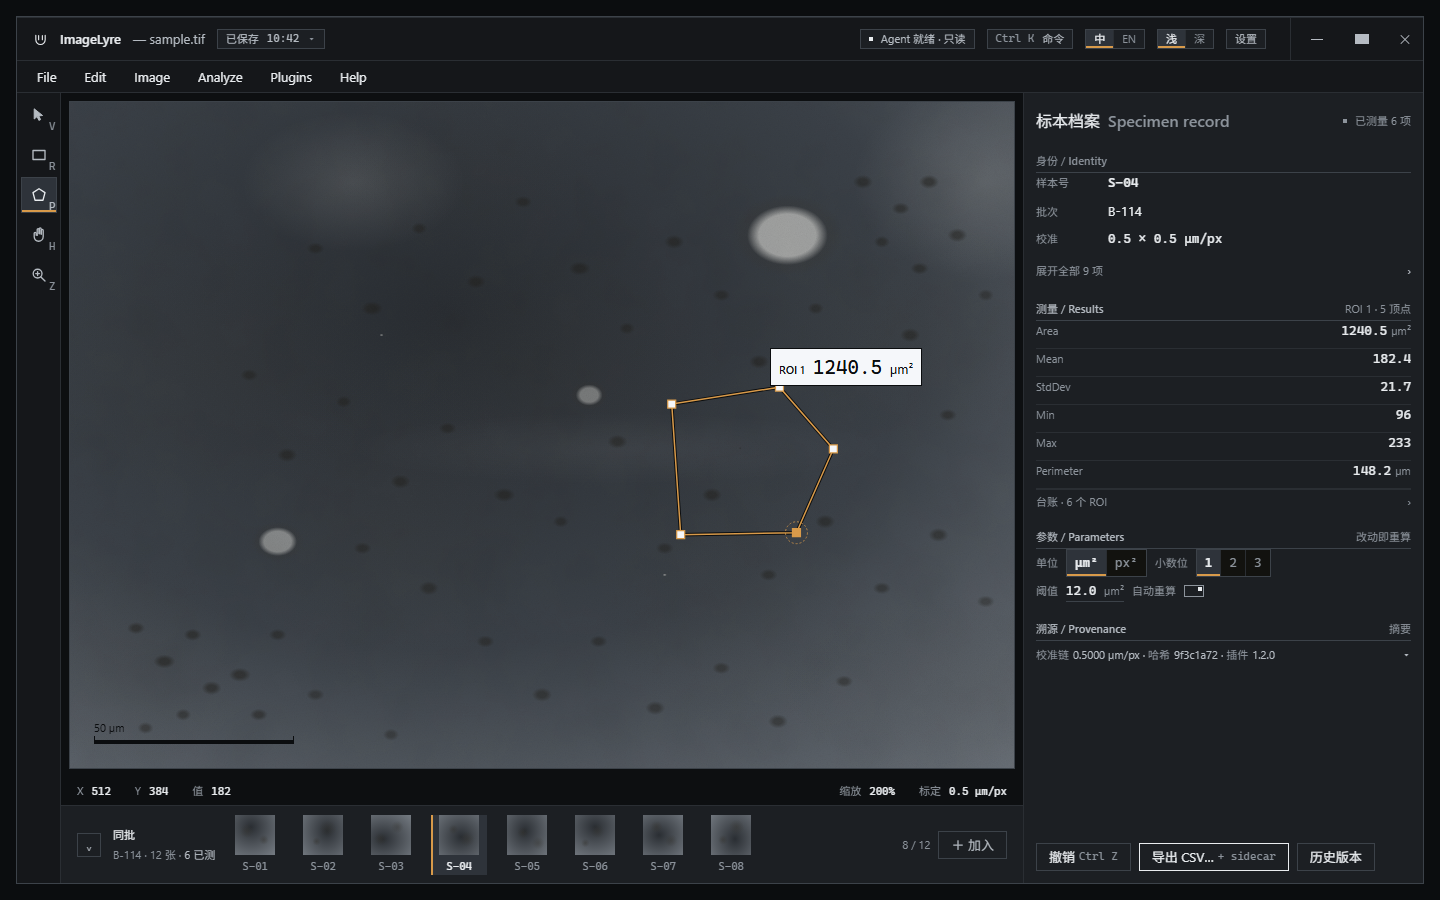
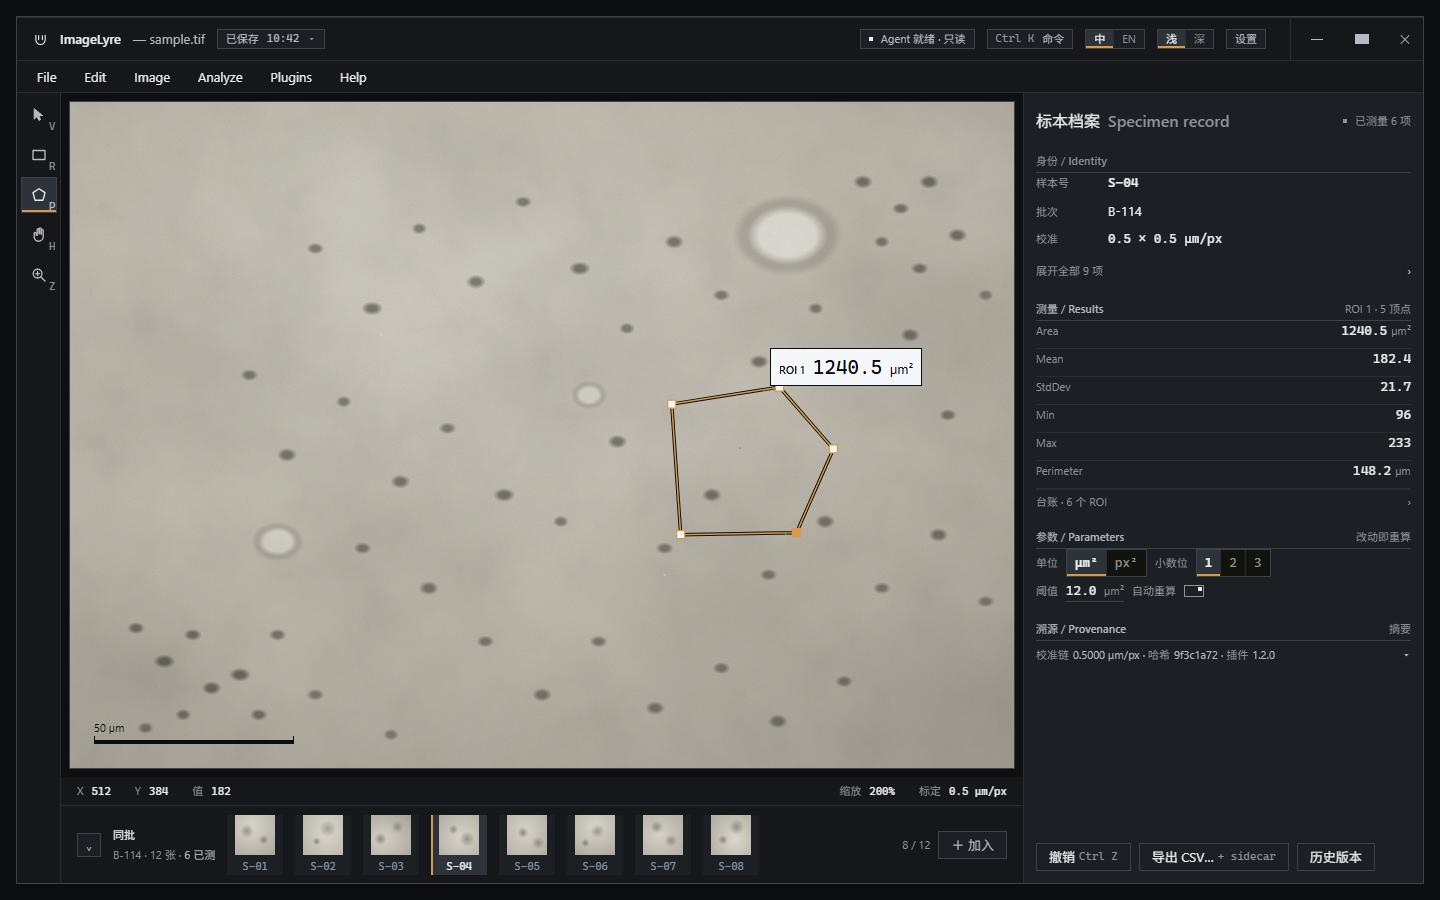
docs(design): 31 暗色最终预览

diff --git a/docs/design/lukan/bakeoff-2026-11-20/e-science/v11/mock.html b/docs/design/lukan/bakeoff-2026-11-20/e-science/v11/mock.html
@@ -79,7 +79,7 @@
   /* ---------- stage ---------- */
   .stage{flex:1 1 auto;min-width:0;display:flex;flex-direction:column;background:#0D0F11}
   .viewport{flex:1 1 auto;min-height:0;display:flex;padding:var(--sp-2)}
-  .plate{position:relative;flex:1 1 auto;min-height:0;overflow:hidden;border:1px solid var(--rule);background-color:#3c4249;background-image:radial-gradient(ellipse 84px 62px at 76% 20%, rgba(250,248,241,.55) 0 34%, rgba(58,54,46,.16) 48% 54%, rgba(58,54,46,0) 66%),
+  .plate{position:relative;flex:1 1 auto;min-height:0;overflow:hidden;border:1px solid var(--rule);background-color:#B4B4B0;background-image:radial-gradient(ellipse 84px 62px at 76% 20%, rgba(250,248,241,.55) 0 34%, rgba(58,54,46,.16) 48% 54%, rgba(58,54,46,0) 66%),
       radial-gradient(ellipse 40px 30px at 22% 66%, rgba(249,247,240,.42) 0 34%, rgba(58,54,46,.13) 48% 54%, rgba(58,54,46,0) 66%),
       radial-gradient(ellipse 28px 22px at 55% 44%, rgba(249,247,240,.36) 0 32%, rgba(58,54,46,.12) 48% 54%, rgba(58,54,46,0) 66%),
       radial-gradient(ellipse 3px 2px at 63% 71%, rgba(255,253,246,.5), rgba(255,253,246,0) 70%),
@@ -152,7 +152,7 @@
       radial-gradient(ellipse 190px 140px at 97% 12%, rgba(250,248,240,.15), rgba(250,248,240,0) 70%),
       radial-gradient(ellipse 160px 100px at 30% 12%, rgba(250,248,240,.12), rgba(250,248,240,0) 70%),
       radial-gradient(ellipse 380px 50px at 58% 52%, rgba(255,255,255,.05), rgba(255,255,255,0) 72%),
-      radial-gradient(120% 120% at 40% 32%, #2a2e33 0%, #3c4249 42%, #8c939b 100%);}
+      radial-gradient(120% 120% at 40% 32%, #d4d0c5 0%, #beb9ad 42%, #8f8b81 100%);}
   .plate::before,.plate::after{content:"";position:absolute;inset:0;z-index:1;pointer-events:none;mix-blend-mode:multiply}
   .plate::before{filter:url(#mottle);opacity:.19}
   .plate::after{filter:url(#grain);opacity:.16}
@@ -194,18 +194,18 @@
   .b-tabs{flex:1 1 auto;display:flex;align-items:center;gap:var(--sp-3);min-width:0}
   .b-tab{flex:0 0 var(--w-thumb);width:var(--w-thumb);height:var(--h-thumb);display:flex;flex-direction:column;align-items:center;background:var(--panel)}
   .b-tab.on{background:var(--sel)}
-  .b-thumb{width:var(--d-thumb);height:var(--d-thumb);background-color:#3c4249}
+  .b-thumb{width:var(--d-thumb);height:var(--d-thumb);background-color:#B4B4B0}
   .b-id{height:var(--lh-11);display:flex;align-items:center;gap:var(--sp-1);margin-top:var(--sp-1);font-family:var(--mono);font-size:var(--fs-11);line-height:var(--lh-11);color:var(--ink-3)}
   .b-tab.on .b-id{color:var(--ink)}
   
-  .b-thumb.a{background-image:radial-gradient(circle 10px at 30% 40%, rgba(50,48,42,.38), rgba(50,48,42,0) 70%),radial-gradient(circle 7px at 72% 62%, rgba(50,48,42,.42), rgba(50,48,42,0) 70%),radial-gradient(120% 120% at 40% 30%, #2a2e33, #8c939b)}
-  .b-thumb.b{background-image:radial-gradient(circle 12px at 62% 34%, rgba(50,48,42,.34), rgba(50,48,42,0) 70%),radial-gradient(circle 6px at 34% 66%, rgba(50,48,42,.44), rgba(50,48,42,0) 70%),radial-gradient(110% 130% at 60% 40%, #2a2e33, #8c939b)}
-  .b-thumb.c{background-image:radial-gradient(circle 9px at 24% 60%, rgba(50,48,42,.44), rgba(50,48,42,0) 70%),radial-gradient(circle 9px at 66% 30%, rgba(50,48,42,.34), rgba(50,48,42,0) 70%),radial-gradient(130% 110% at 30% 60%, #2a2e33, #8c939b)}
-  .b-thumb.d{background-image:radial-gradient(circle 11px at 70% 60%, rgba(50,48,42,.38), rgba(50,48,42,0) 70%),radial-gradient(circle 7px at 36% 36%, rgba(50,48,42,.40), rgba(50,48,42,0) 70%),radial-gradient(120% 120% at 55% 55%, #2a2e33, #8c939b)}
-  .b-thumb.e{background-image:radial-gradient(circle 8px at 40% 44%, rgba(50,48,42,.46), rgba(50,48,42,0) 70%),radial-gradient(circle 9px at 78% 70%, rgba(50,48,42,.34), rgba(50,48,42,0) 70%),radial-gradient(110% 130% at 45% 40%, #2a2e33, #8c939b)}
-  .b-thumb.f{background-image:radial-gradient(circle 10px at 56% 40%, rgba(50,48,42,.36), rgba(50,48,42,0) 70%),radial-gradient(circle 6px at 26% 70%, rgba(50,48,42,.44), rgba(50,48,42,0) 70%),radial-gradient(130% 120% at 50% 30%, #2a2e33, #8c939b)}
-  .b-thumb.g{background-image:radial-gradient(circle 9px at 34% 30%, rgba(50,48,42,.40), rgba(50,48,42,0) 70%),radial-gradient(circle 9px at 70% 64%, rgba(50,48,42,.36), rgba(50,48,42,0) 70%),radial-gradient(120% 110% at 40% 50%, #2a2e33, #8c939b)}
-  .b-thumb.h{background-image:radial-gradient(circle 11px at 64% 30%, rgba(50,48,42,.38), rgba(50,48,42,0) 70%),radial-gradient(circle 7px at 30% 62%, rgba(50,48,42,.42), rgba(50,48,42,0) 70%),radial-gradient(110% 130% at 60% 60%, #2a2e33, #8c939b)}
+  .b-thumb.a{background-image:radial-gradient(circle 10px at 30% 40%, rgba(50,48,42,.38), rgba(50,48,42,0) 70%),radial-gradient(circle 7px at 72% 62%, rgba(50,48,42,.42), rgba(50,48,42,0) 70%),radial-gradient(120% 120% at 40% 30%, #d9d5ca, #9d998e)}
+  .b-thumb.b{background-image:radial-gradient(circle 12px at 62% 34%, rgba(50,48,42,.34), rgba(50,48,42,0) 70%),radial-gradient(circle 6px at 34% 66%, rgba(50,48,42,.44), rgba(50,48,42,0) 70%),radial-gradient(110% 130% at 60% 40%, #dcd8cd, #a5a196)}
+  .b-thumb.c{background-image:radial-gradient(circle 9px at 24% 60%, rgba(50,48,42,.44), rgba(50,48,42,0) 70%),radial-gradient(circle 9px at 66% 30%, rgba(50,48,42,.34), rgba(50,48,42,0) 70%),radial-gradient(130% 110% at 30% 60%, #d5d1c6, #97938a)}
+  .b-thumb.d{background-image:radial-gradient(circle 11px at 70% 60%, rgba(50,48,42,.38), rgba(50,48,42,0) 70%),radial-gradient(circle 7px at 36% 36%, rgba(50,48,42,.40), rgba(50,48,42,0) 70%),radial-gradient(120% 120% at 55% 55%, #d8d4c9, #9b978c)}
+  .b-thumb.e{background-image:radial-gradient(circle 8px at 40% 44%, rgba(50,48,42,.46), rgba(50,48,42,0) 70%),radial-gradient(circle 9px at 78% 70%, rgba(50,48,42,.34), rgba(50,48,42,0) 70%),radial-gradient(110% 130% at 45% 40%, #d6d2c7, #a09c91)}
+  .b-thumb.f{background-image:radial-gradient(circle 10px at 56% 40%, rgba(50,48,42,.36), rgba(50,48,42,0) 70%),radial-gradient(circle 6px at 26% 70%, rgba(50,48,42,.44), rgba(50,48,42,0) 70%),radial-gradient(130% 120% at 50% 30%, #d9d5ca, #99958a)}
+  .b-thumb.g{background-image:radial-gradient(circle 9px at 34% 30%, rgba(50,48,42,.40), rgba(50,48,42,0) 70%),radial-gradient(circle 9px at 70% 64%, rgba(50,48,42,.36), rgba(50,48,42,0) 70%),radial-gradient(120% 110% at 40% 50%, #d4d0c5, #a19d92)}
+  .b-thumb.h{background-image:radial-gradient(circle 11px at 64% 30%, rgba(50,48,42,.38), rgba(50,48,42,0) 70%),radial-gradient(circle 7px at 30% 62%, rgba(50,48,42,.42), rgba(50,48,42,0) 70%),radial-gradient(110% 130% at 60% 60%, #dad6cb, #9c988d)}
   .b-actions{flex:0 0 auto;display:flex;align-items:center;gap:var(--sp-2)}
   .b-count{font-size:var(--fs-11);line-height:var(--lh-11);color:var(--ink-3)}
   .b-add{display:flex;align-items:center;height:var(--h-button);padding:0 var(--sp-3);border:1px solid var(--rule);background:var(--panel);font-size:var(--fs-13);line-height:var(--lh-13);color:var(--ink-2)}
@@ -254,7 +254,7 @@
   .foot{margin-top:auto;display:flex;gap:var(--sp-2);align-items:center}
   .btn{display:flex;align-items:center;gap:var(--sp-1);height:var(--h-button);padding:0 var(--sp-3);background:var(--panel);border:1px solid var(--rule);font-size:var(--fs-13);line-height:var(--lh-13);color:var(--ink)}
   .btn .k{font-family:var(--mono);font-size:var(--fs-11);line-height:var(--lh-11);color:var(--ink-3)}
-  .btn.strong{border-color:var(--ink)}
+  .btn.strong{border-color:var(--rule)}
 
   /* ---------- hidden command palette ---------- */
   .palette{display:none;position:absolute;left:76px;top:196px;width:452px;background:var(--panel);border:1px solid var(--rule);z-index:30}

diff --git a/docs/design/lukan/bakeoff-2026-11-20/e-science/v11/notes.md b/docs/design/lukan/bakeoff-2026-11-20/e-science/v11/notes.md
@@ -1,0 +1,1 @@
+全表按 1.3 暗套：#15171A #1C1F23 #0D0F11 #12120F #2E333A #2A2E33 #3C4249 #E9ECEF #B5BBC2 #8C939B #D89A4A。亮色只剩图像与 canvas.ink #F5F7FA，无亮底残留；正文 6.5:1。
